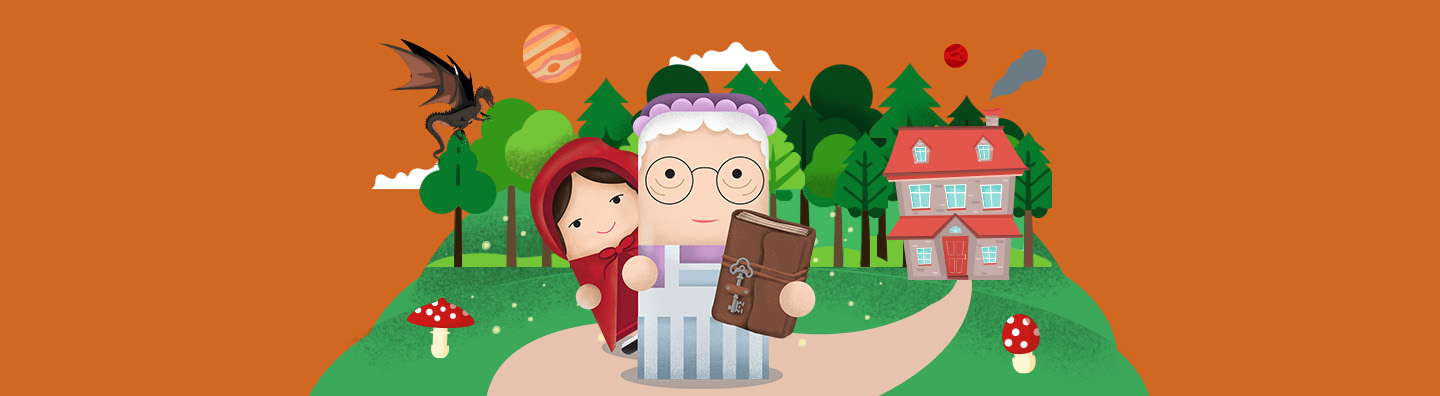
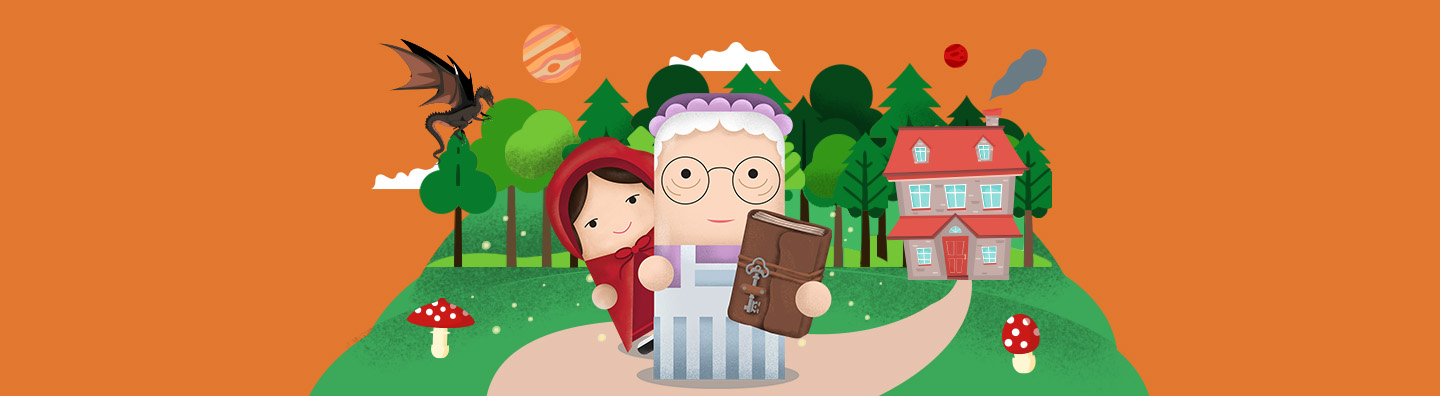
Campaign 2025: Header adjustments, teaser (#536)
https://www.wrike.com/open.htm?id=1526771127

Changed region(s): [[0.3438, 0.2121, 0.5938, 1.0]]

diff --git a/app/styles/campaigns/_march-campaign-2024.scss b/app/styles/campaigns/_march-campaign-2024.scss
@@ -1,7 +1,7 @@
 $mc24-color-green: #3F9E52;
 $mc24-color-beige: #FDEFE3;
 
-$mc25-color-orange: #D26922;
+$mc25-color-orange: #e2782f;
 
 .mc24-bg-green {
   background: $mc24-color-green;
@@ -273,6 +273,10 @@ $mc25-color-orange: #D26922;
   @include breakpoint('l') {
     background-size: contain;
     background-position-x: 300px;
+  }
+
+  &__claim {
+    text-shadow: 0 2px 4px rgba(0, 0, 0, 0.45);
   }
 
   &__logo img {
